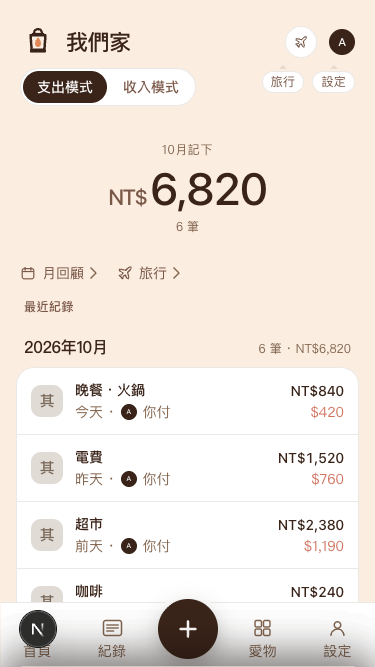
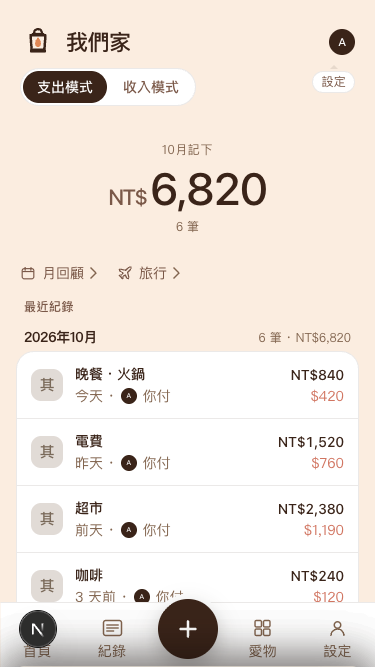
feat(dashboard): 首頁月份列改緊湊版，拿掉頁首飛機鈕 (#1851)
- MonthSection 加 dense，只有 DashboardFeed 傳：pt-2 pb-1、月份字 text-sm。
  字重維持 500：只自架 400／500，600 會被合成（font-weight-loaded 測試）。
  SE 旅行＋2 筆待確認的第一筆下緣 595 → 579。
- 照 Ray 10/29 決定拿掉頁首飛機鈕，旅行入口只留延續列。刪掉
  showTripButton／onTripClick；BrandHeaderHint 拿掉旅行提示，只留設定。
- 截圖重拍 8 種情境，另補有旅行、過去章節兩張。

diff --git a/app/(dashboard)/dashboard/_components/BrandHeader.tsx b/app/(dashboard)/dashboard/_components/BrandHeader.tsx
@@ -7,11 +7,6 @@ import { Avatar } from '@/app/(dashboard)/_components/Avatar'
 import { useTranslations } from '@/lib/i18n/client'
 import { BrandHeaderHint } from './BrandHeaderHint'
 
-interface BrandHeaderProps {
-  showTripButton?: boolean
-  onTripClick?: () => void
-}
-
 export function PlaneIcon({ size = 14, color = 'currentColor' }: { size?: number; color?: string }) {
   return (
     <svg
@@ -30,7 +25,7 @@ export function PlaneIcon({ size = 14, color = 'currentColor' }: { size?: number
   )
 }
 
-export function BrandHeader({ showTripButton, onTripClick }: BrandHeaderProps = {}) {
+export function BrandHeader() {
   const { group, viewer, viewerIsA, isFormerMember } = useMember()
   // #1604 — in a past chapter: that chapter's partner, initial only (avatarUrl
   // is null), or nobody if the chapter was solo. Never today's partner.
@@ -58,22 +53,9 @@ export function BrandHeader({ showTripButton, onTripClick }: BrandHeaderProps = 
       </div>
       {/* relative: anchor for BrandHeaderHint absolute callouts */}
       <div className="relative flex items-center gap-2 shrink-0">
-        {/* #1612 — a former member's look-back offers no trip or settings
-            entry: both act on the viewer's own ledger, not this chapter. */}
-        {showTripButton && !isFormerMember && (
-          <button
-            type="button"
-            onClick={onTripClick}
-            aria-label={t.dashboard.activeTripBanner.addAriaLabel}
-            className="h-8 w-8 rounded-full flex items-center justify-center cursor-pointer"
-            style={{
-              background: 'var(--surface)',
-              border: '1px solid var(--hairline)',
-            }}
-          >
-            <PlaneIcon size={14} color="var(--ink-2)" />
-          </button>
-        )}
+        {/* #1612 — a former member's look-back offers no settings entry: it
+            acts on the viewer's own ledger, not this chapter. The trip entry
+            lives in the dashboard's continuation row only (#1851). */}
         {isFormerMember ? (
           <div className="flex p-1 -mr-1">
             <Avatar memberRole={viewerRole} initial={viewer.initial} src={viewer.avatarUrl} size={26} />
@@ -98,7 +80,7 @@ export function BrandHeader({ showTripButton, onTripClick }: BrandHeaderProps = 
             )}
           </button>
         )}
-        {!isFormerMember && <BrandHeaderHint showTripButton={!!showTripButton} />}
+        {!isFormerMember && <BrandHeaderHint />}
       </div>
     </div>
   )

diff --git a/app/(dashboard)/dashboard/_components/BrandHeaderHint.tsx b/app/(dashboard)/dashboard/_components/BrandHeaderHint.tsx
@@ -19,17 +19,19 @@ function reducer(phase: Phase, action: Action): Phase {
 }
 
 /**
- * One-time first-use floating labels below the BrandHeader icon buttons (#765).
+ * One-time first-use floating label below the BrandHeader avatar stack (#765).
  *
- * Two small pill callouts appear below the ✈ and avatar-stack buttons on the
- * user's first visit. They auto-dismiss after 3.5 s or on the first tap/click
- * anywhere. The `futari_header_hint_v1` localStorage key prevents re-display.
+ * A small pill callout appears below the avatar-stack button on the user's
+ * first visit. The ✈ callout went with the header trip button (#1851): the
+ * trip entry is now the labelled 「✈ 旅行 ›」 row, which needs no hint.
+ * It auto-dismisses after 3.5 s or on the first tap/click anywhere. The
+ * `futari_header_hint_v1` localStorage key prevents re-display.
  *
  * Positioned absolute inside the BrandHeader's right `relative` container so
- * each callout sits naturally below its respective button. Respects
+ * the callout sits naturally below its button. Respects
  * `prefers-reduced-motion`.
  */
-export function BrandHeaderHint({ showTripButton }: { showTripButton: boolean }) {
+export function BrandHeaderHint() {
   const t = useTranslations()
   const [phase, dispatch] = useReducer(reducer, 'idle')
 
@@ -105,7 +107,6 @@ export function BrandHeaderHint({ showTripButton }: { showTripButton: boolean })
           : 'opacity 150ms ease-in, transform 150ms ease-in',
       }}
     >
-      {showTripButton && <Callout label={t.dashboard.headerHint.trip} />}
       <Callout label={t.dashboard.headerHint.settings} />
     </div>
   )

diff --git a/app/(dashboard)/records/_components/MonthSection.tsx b/app/(dashboard)/records/_components/MonthSection.tsx
@@ -30,6 +30,14 @@ interface Props {
     expenseTotal: number
     incomeTotal: number
   }
+  /**
+   * Dashboard only (#1851): on the home feed the month row is a divider, not a
+   * heading to read, so it shrinks to keep the first entry above the SE fold.
+   * The records page keeps the full row.
+   * Weight stays 500 (Daphne asked for semibold, but only 400/500 are
+   * self-hosted; 600 would be synthesized, see font-weight-loaded.test.ts).
+   */
+  dense?: boolean
 }
 
 /**
@@ -44,7 +52,7 @@ interface Props {
  *   both — omitting a zero segment, except when both are zero, in which
  *   case the 支出 segment stays as the anchor.
  */
-export function MonthSection({ monthKey, count, totalAmount, summary }: Props) {
+export function MonthSection({ monthKey, count, totalAmount, summary, dense }: Props) {
   const t = useTranslations()
   const locale = useLocale()
   const baseCurrency = useBaseCurrency()
@@ -53,9 +61,9 @@ export function MonthSection({ monthKey, count, totalAmount, summary }: Props) {
     : formatLedgerAmount(totalAmount ?? 0, baseCurrency)
 
   return (
-    <div className="px-6 pt-4 pb-2 flex items-baseline justify-between gap-2">
+    <div className={`px-6 ${dense ? 'pt-2 pb-1' : 'pt-4 pb-2'} flex items-baseline justify-between gap-2`}>
       <span
-        className="text-base font-medium tracking-tight shrink-0"
+        className={`${dense ? 'text-sm' : 'text-base'} font-medium tracking-tight shrink-0`}
         style={{ color: 'var(--ink)' }}
       >
         {monthLabel(monthKey, locale)}

diff --git a/app/(dashboard)/_components/TransactionFeed.tsx b/app/(dashboard)/_components/TransactionFeed.tsx
@@ -53,9 +53,11 @@ interface Props {
    * asset-detail / insurance SavingsView keep the legacy unlabeled render.
    */
   monthSummaries?: { mode: 'all' | 'expense' | 'income'; byMonth: Record<string, FeedMonthSummary> }
+  /** Compact month headers (#1851). Only DashboardFeed passes it. */
+  denseMonths?: boolean
 }
 
-export function TransactionFeed({ initial, pageSize, emptyState, onItemClick, label, header, filter, loader, monthKey, acceptInsert, renderRow, monthSummaries }: Props) {
+export function TransactionFeed({ initial, pageSize, emptyState, onItemClick, label, header, filter, loader, monthKey, acceptInsert, renderRow, monthSummaries, denseMonths }: Props) {
   const t = useTranslations()
   const online = useOnlineStatus()
   const [items, setItems] = useState<PagedTxnRow[]>(initial)
@@ -322,7 +324,7 @@ export function TransactionFeed({ initial, pageSize, emptyState, onItemClick, la
         }
         return (
           <div key={g.monthKey}>
-            <MonthSection monthKey={g.monthKey} count={count} totalAmount={totalAmount} summary={summary} />
+            <MonthSection monthKey={g.monthKey} count={count} totalAmount={totalAmount} summary={summary} dense={denseMonths} />
             <div
               className="mx-4 rounded-tile overflow-hidden"
               style={{ background: 'var(--surface)', border: '1px solid var(--hairline)' }}

diff --git a/tests/former-member-nav-1612.test.tsx b/tests/former-member-nav-1612.test.tsx
@@ -88,11 +88,19 @@ describe('#1612 — hidden entries in a former member\'s look-back', () => {
   })
 
   it('BrandHeader: no avatar-menu button and no trip button', () => {
-    render(<Shell former><BrandHeader showTripButton onTripClick={() => {}} /></Shell>)
+    render(<Shell former><BrandHeader /></Shell>)
     expect(screen.queryByRole('button', { name: zhTW.settings.quickAccessRow })).toBeNull()
     expect(screen.queryByRole('button', { name: zhTW.dashboard.activeTripBanner.addAriaLabel })).toBeNull()
     // The chapter's partner is still shown, as the chapter recorded them.
     expect(screen.getAllByText('A').length).toBeGreaterThan(0)
+  })
+
+  // #1851: the header trip button is gone for everyone; the trip entry is the
+  // dashboard's continuation row.
+  it('BrandHeader: no trip button for a current member either', () => {
+    render(<Shell former={false}><BrandHeader /></Shell>)
+    expect(screen.getByRole('button', { name: zhTW.settings.quickAccessRow })).toBeInTheDocument()
+    expect(screen.queryByRole('button', { name: zhTW.dashboard.activeTripBanner.addAriaLabel })).toBeNull()
   })
 
   it('the avatar menu cannot be opened (no sheet mounts)', () => {

diff --git a/tests/MonthSection.test.tsx b/tests/MonthSection.test.tsx
@@ -28,4 +28,18 @@ describe('MonthSection', () => {
     expect(screen.getByText(/0 筆/)).toBeInTheDocument()
     expect(screen.getByText(/NT\$0/)).toBeInTheDocument()
   })
+
+  // #1851: the dashboard feed passes `dense`; the records page does not.
+  it('dense shrinks padding and the month label; default is unchanged', () => {
+    const { unmount } = wrap(<MonthSection monthKey="2026-05" count={1} totalAmount={500} dense />)
+    let label = screen.getByText(/2026/)
+    expect(label.className).toContain('text-sm')
+    expect(label.className).toContain('font-medium')
+    expect(label.parentElement!.className).toContain('pt-2 pb-1')
+    unmount()
+    wrap(<MonthSection monthKey="2026-05" count={1} totalAmount={500} />)
+    label = screen.getByText(/2026/)
+    expect(label.className).toContain('text-base')
+    expect(label.parentElement!.className).toContain('pt-4 pb-2')
+  })
 })

diff --git a/app/(dashboard)/dashboard/_components/DashboardFeed.tsx b/app/(dashboard)/dashboard/_components/DashboardFeed.tsx
@@ -65,6 +65,7 @@ export function DashboardFeed({
       filter={filter ?? undefined}
       loader={mode === 'income' ? incomeLoader : undefined}
       renderRow={mode === 'income' ? incomeRenderRow : undefined}
+      denseMonths
       label={header ? header(title) : <div className="flex items-end justify-between">{title}</div>}
       emptyState={
         mode === 'income'
@@ -84,7 +85,7 @@ export function DashboardFeedSkeleton() {
           {t.feed.header}
         </span>
       </div>
-      <div className="px-6 pt-4 pb-2">
+      <div className="px-6 pt-2 pb-1">
         <div className="h-4 w-24 rounded animate-pulse" style={{ background: 'var(--surface)', opacity: 0.6 }} />
       </div>
       <div

diff --git a/app/(dashboard)/dashboard/_components/Dashboard.tsx b/app/(dashboard)/dashboard/_components/Dashboard.tsx
@@ -304,7 +304,7 @@ export function Dashboard({
   return (
     <div className="relative min-h-dvh pb-[var(--bottom-nav-offset)]">
       {/* L1: Brand identity */}
-      <BrandHeader showTripButton={activeTrips.length === 0} onTripClick={() => dispatch({ type: 'openTripSheet' })} />
+      <BrandHeader />
       {/* L3: Contextual strip (offline / past-epoch / active-trip) */}
       <ContextStrip
         activeTrips={activeTrips}
